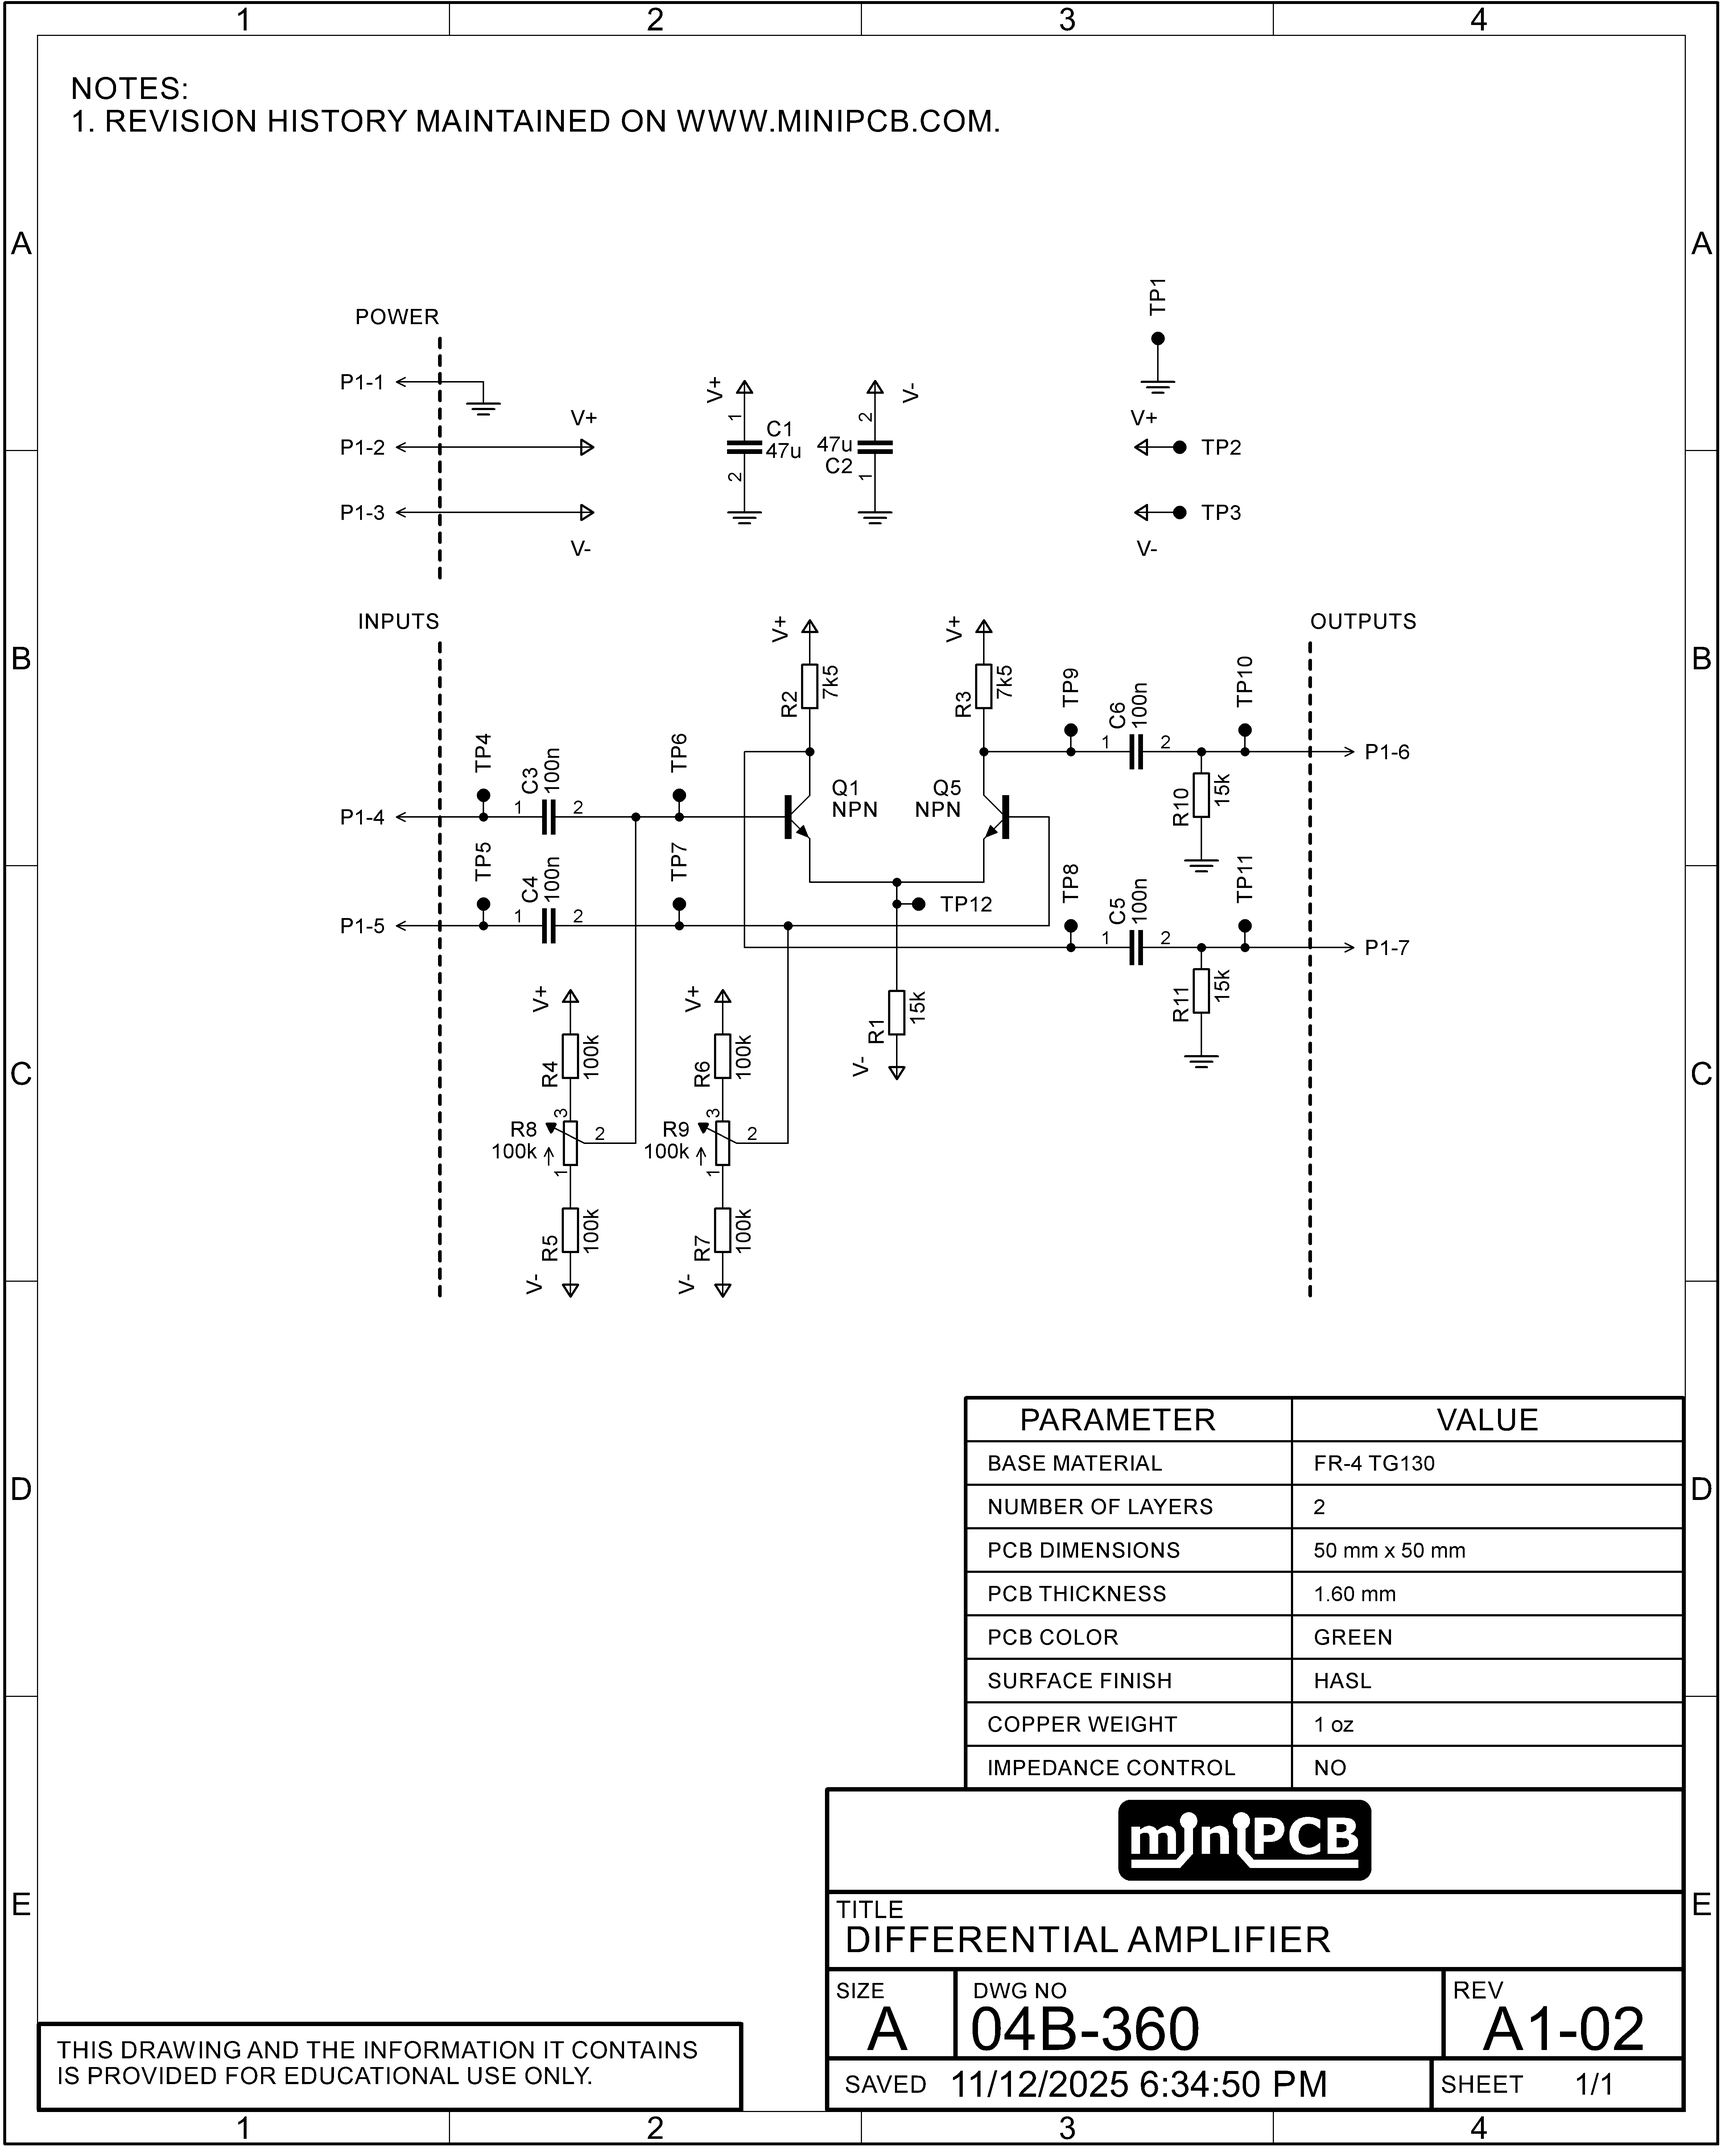
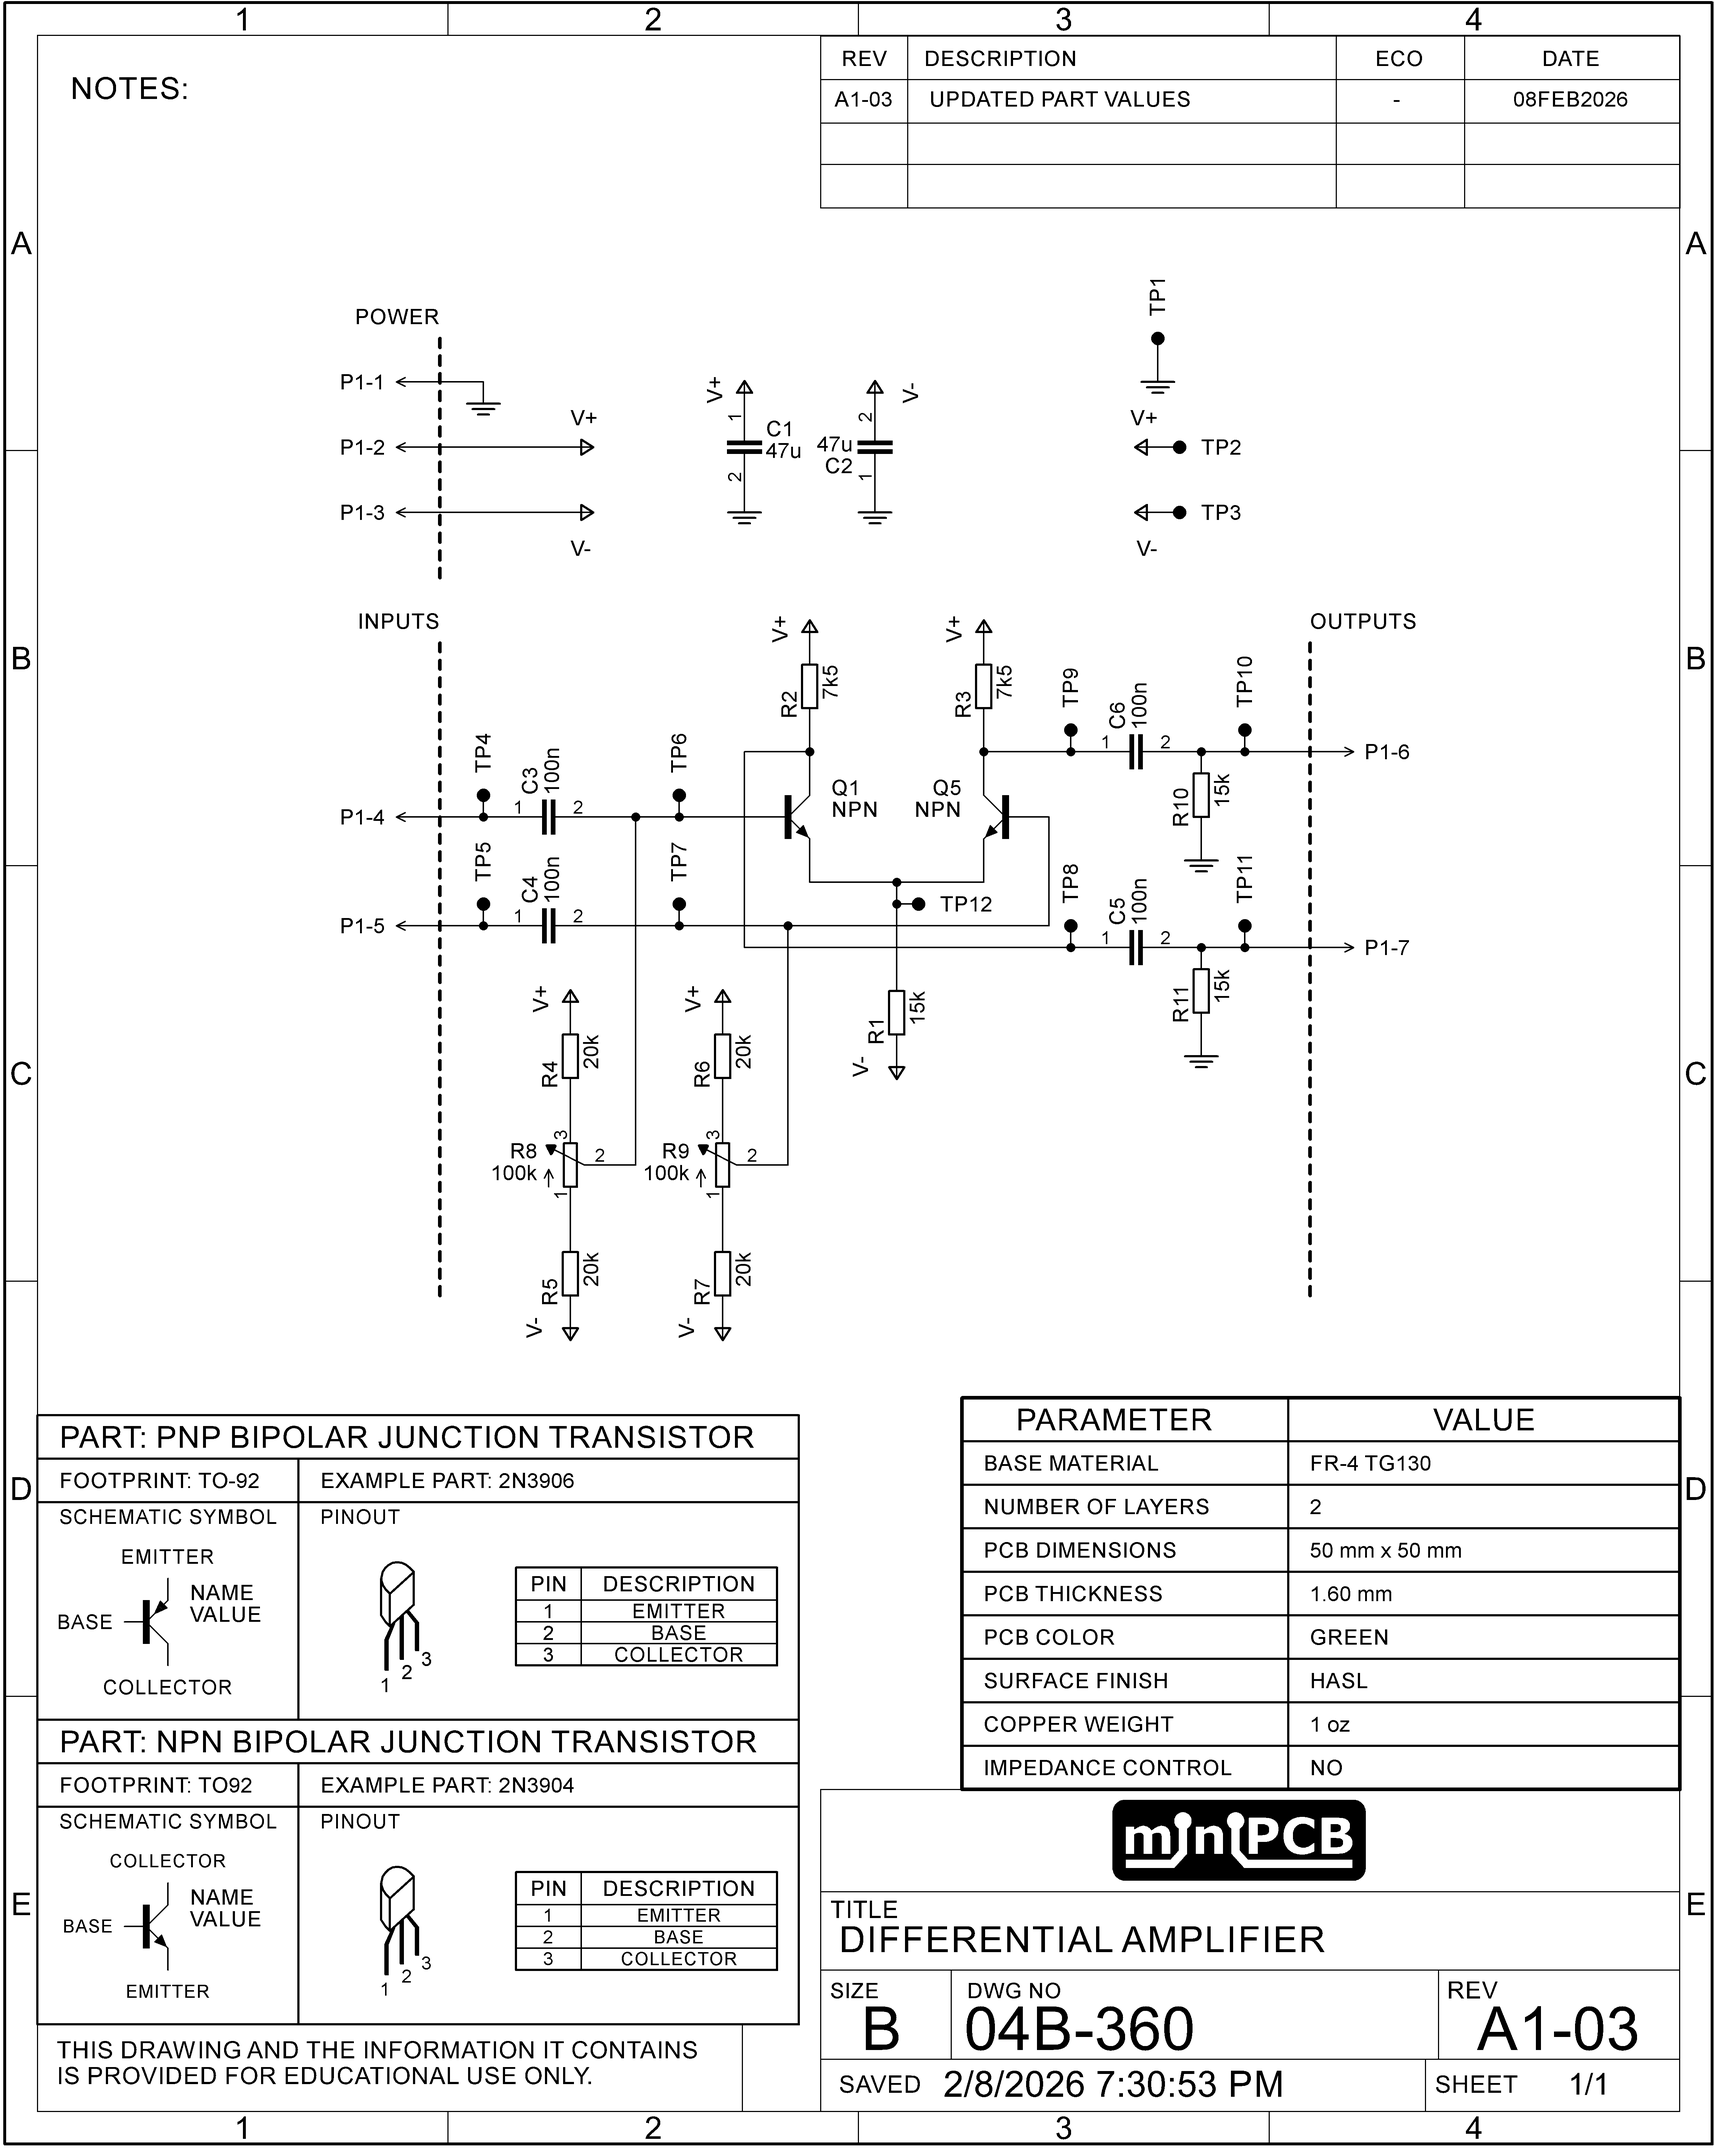
Updated part numbers

diff --git a/draft/04B/04B-358.html b/draft/04B/04B-358.html
@@ -43,6 +43,8 @@
   <button aria-controls="resources" aria-selected="false" class="tab" data-tab="resources" role="tab" type="button">Additional Resources</button>
 </div>
 
+<script id="section-visibility" type="application/json">{"details":true,"description":false,"simulation":true,"schematic":true,"layout":true,"downloads":true,"resources":true}</script>
+
 <div aria-hidden="true" class="tab-content" id="details">
 <h2>Details</h2>
 <p><strong>Part No:</strong> 04B-358</p>
@@ -52,9 +54,14 @@
 <p><strong>Panel Size:</strong> 100 x 100 mm (V-scored)</p>
 </div>
 
-<div aria-hidden="true" class="tab-content" data-hidden="true" id="description">
+<div aria-hidden="true" class="tab-content" id="description">
 <h2>Description</h2>
-
+<h3>Human-Written Seed</h3>
+<p></p>
+<h3>AI Generated Description</h3>
+<div class="generated">
+<p><br></p>
+</div>
 </div>
 
 <div aria-hidden="true" class="tab-content" id="simulation">

diff --git a/md/04B-360_A1-02_sch.md b/md/04B-360_A1-02_sch.md
@@ -20,65 +20,101 @@
 | GND | P1 | 1 | GND (1) | 1 |
 | GND | C1 | 2 | 2 | 1 |
 | GND | C2 | 1 | 1 | 1 |
+| GND | R10 | 1 | 1 | 1 |
+| GND | R11 | 1 | 1 | 1 |
+| GND | TP1 | 1 | 1 | 1 |
+| INPUT_INVERTING | C4 | 1 | 1 | 1 |
+| INPUT_INVERTING | P1 | 5 | IN- (5) | 1 |
+| INPUT_INVERTING | TP5 | 1 | 1 | 1 |
+| INPUT_NONINVERTING | C3 | 1 | 1 | 1 |
+| INPUT_NONINVERTING | P1 | 4 | IN+ (4) | 1 |
+| INPUT_NONINVERTING | TP4 | 1 | 1 | 1 |
 | N$1 | Q1 | E | E | 1 |
 | N$1 | Q5 | E | E | 1 |
 | N$1 | R1 | 2 | 2 | 1 |
-| N$2 | Q5 | C | C | 1 |
-| N$2 | R3 | 1 | 1 | 1 |
-| N$2 | P1 | 6 | OUT+ (6) | 1 |
-| N$3 | Q1 | C | C | 1 |
-| N$3 | R2 | 1 | 1 | 1 |
-| N$3 | P1 | 7 | OUT- (7) | 1 |
-| N$5 | R4 | 1 | 1 | 1 |
-| N$5 | R8 | 3 | 3 | 1 |
-| N$6 | R5 | 2 | 2 | 1 |
-| N$6 | R8 | 1 | 1 | 1 |
-| N$7 | Q5 | B | B | 1 |
-| N$7 | R9 | 2 | 2 | 1 |
-| N$7 | C4 | 2 | 2 | 1 |
-| N$8 | Q1 | B | B | 1 |
-| N$8 | R8 | 2 | 2 | 1 |
-| N$8 | C3 | 2 | 2 | 1 |
-| N$9 | R6 | 1 | 1 | 1 |
-| N$9 | R9 | 3 | 3 | 1 |
-| N$10 | R7 | 2 | 2 | 1 |
-| N$10 | R9 | 1 | 1 | 1 |
-| N$11 | C3 | 1 | 1 | 1 |
-| N$11 | P1 | 4 | IN+ (4) | 1 |
-| N$12 | C4 | 1 | 1 | 1 |
-| N$12 | P1 | 5 | IN- (5) | 1 |
+| N$1 | TP12 | 1 | 1 | 1 |
+| OUTPUT_INVERTING | P1 | 7 | OUT- (7) | 1 |
+| OUTPUT_INVERTING | C5 | 2 | 2 | 1 |
+| OUTPUT_INVERTING | R11 | 2 | 2 | 1 |
+| OUTPUT_INVERTING | TP11 | 1 | 1 | 1 |
+| OUTPUT_NONINVERTING | P1 | 6 | OUT+ (6) | 1 |
+| OUTPUT_NONINVERTING | C6 | 2 | 2 | 1 |
+| OUTPUT_NONINVERTING | R10 | 2 | 2 | 1 |
+| OUTPUT_NONINVERTING | TP10 | 1 | 1 | 1 |
+| Q1_BASE | Q1 | B | B | 1 |
+| Q1_BASE | R8 | 2 | 2 | 1 |
+| Q1_BASE | C3 | 2 | 2 | 1 |
+| Q1_BASE | TP6 | 1 | 1 | 1 |
+| Q1_BASE_NETWORK_1 | R4 | 1 | 1 | 1 |
+| Q1_BASE_NETWORK_1 | R8 | 3 | 3 | 1 |
+| Q1_BASE_NETWORK_2 | R5 | 2 | 2 | 1 |
+| Q1_BASE_NETWORK_2 | R8 | 1 | 1 | 1 |
+| Q1_COLLECTOR | Q1 | C | C | 1 |
+| Q1_COLLECTOR | R2 | 1 | 1 | 1 |
+| Q1_COLLECTOR | C5 | 1 | 1 | 1 |
+| Q1_COLLECTOR | TP8 | 1 | 1 | 1 |
+| Q5_BASE | Q5 | B | B | 1 |
+| Q5_BASE | R9 | 2 | 2 | 1 |
+| Q5_BASE | C4 | 2 | 2 | 1 |
+| Q5_BASE | TP7 | 1 | 1 | 1 |
+| Q5_BASE_NETWORK_1 | R6 | 1 | 1 | 1 |
+| Q5_BASE_NETWORK_1 | R9 | 3 | 3 | 1 |
+| Q5_BASE_NETWORK_2 | R7 | 2 | 2 | 1 |
+| Q5_BASE_NETWORK_2 | R9 | 1 | 1 | 1 |
+| Q5_COLLECTOR | Q5 | C | C | 1 |
+| Q5_COLLECTOR | C6 | 1 | 1 | 1 |
+| Q5_COLLECTOR | R3 | 1 | 1 | 1 |
+| Q5_COLLECTOR | TP9 | 1 | 1 | 1 |
 | V+ | P1 | 2 | V+ (2) | 1 |
 | V+ | R2 | 2 | 2 | 1 |
 | V+ | R3 | 2 | 2 | 1 |
 | V+ | C1 | 1 | 1 | 1 |
 | V+ | R4 | 2 | 2 | 1 |
 | V+ | R6 | 2 | 2 | 1 |
+| V+ | TP2 | 1 | 1 | 1 |
 | V- | P1 | 3 | V- (3) | 1 |
 | V- | C2 | 2 | 2 | 1 |
 | V- | R1 | 1 | 1 | 1 |
 | V- | R7 | 1 | 1 | 1 |
 | V- | R5 | 1 | 1 | 1 |
+| V- | TP3 | 1 | 1 | 1 |
 
 # Partlist
 
 | REF DES | PART TYPE | VALUE / DESCRIPTION |
 |---------|-----------|---------------------|
-| C1 | Capacitor |  |
-| C2 | Capacitor |  |
-| C3 | Capacitor |  |
-| C4 | Capacitor |  |
-| P1 | Connector (plug) |  |
-| Q1 | Transistor |  |
-| Q5 | Transistor |  |
-| R1 | Resistor |  |
-| R2 | Resistor |  |
-| R3 | Resistor |  |
-| R4 | Resistor |  |
-| R5 | Resistor |  |
-| R6 | Resistor |  |
-| R7 | Resistor |  |
-| R8 | Resistor |  |
-| R9 | Resistor |  |
+| C1 | Capacitor | 47u |
+| C2 | Capacitor | 47u |
+| C3 | Capacitor | 100n |
+| C4 | Capacitor | 100n |
+| C5 | Capacitor | 100n |
+| C6 | Capacitor | 100n |
+| P1 | Connector (plug) | MAIN_INTERFACE |
+| Q1 | Transistor | NPN |
+| Q5 | Transistor | NPN |
+| R1 | Resistor | 15k |
+| R2 | Resistor | 7k5 |
+| R3 | Resistor | 7k5 |
+| R4 | Resistor | 20k |
+| R5 | Resistor | 20k |
+| R6 | Resistor | 20k |
+| R7 | Resistor | 20k |
+| R8 | Resistor | 100k |
+| R9 | Resistor | 100k |
+| R10 | Resistor | 15k |
+| R11 | Resistor | 15k |
+| TP1 | Test point | GND |
+| TP2 | Test point | V+ |
+| TP3 | Test point | V- |
+| TP4 | Test point | INPUT_NONINVERTING |
+| TP5 | Test point | INPUT_INVERTING |
+| TP6 | Test point | Q1_BASE |
+| TP7 | Test point | Q5_BASE |
+| TP8 | Test point | Q1_COLLECTOR |
+| TP9 | Test point | Q5_COLLECTOR |
+| TP10 | Test point | OUTPUT_NONINVERTING |
+| TP11 | Test point | OUPUT_INVERTING |
+| TP12 | Test point | EMITTERS |
 
 # Pinout Description Table, P1  
 
